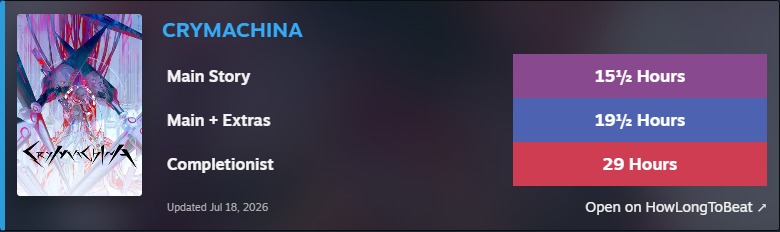
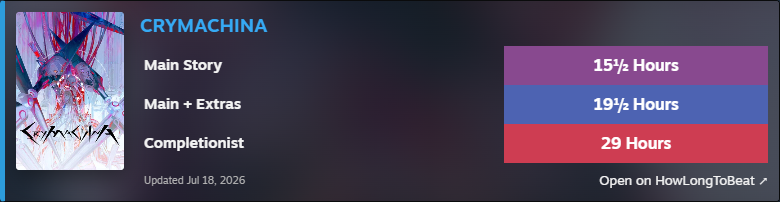
Fix Steam embedded HLTB requests

diff --git a/src/ui/widget.css b/src/ui/widget.css
@@ -1,6 +1,6 @@
 :host {
   display: block;
-  margin: 0 0 14px;
+  margin: 0 0 28px;
   color-scheme: dark;
   font-family: "Motiva Sans", Arial, sans-serif;
 }
@@ -16,7 +16,7 @@
   box-shadow: 0 8px 25px rgba(0, 0, 0, .32);
 }
 
-header { position: relative; padding: 14px 16px 11px; border-bottom: 1px solid rgba(255, 255, 255, .08); }
+header { position: relative; padding: 12px 14px 10px; border-bottom: 1px solid rgba(255, 255, 255, .08); }
 header div { display: flex; align-items: baseline; justify-content: space-between; gap: 12px; }
 header strong { color: #fff; font-size: 15px; letter-spacing: .02em; }
 header span, .badge { color: #55b9f3; font-size: 10px; font-weight: 700; letter-spacing: .08em; text-transform: uppercase; }
@@ -33,34 +33,34 @@ header span, .badge { color: #55b9f3; font-size: 10px; font-weight: 700; letter-
 }
 .card-shade { background: linear-gradient(90deg, rgba(20, 20, 22, .48), rgba(20, 20, 22, .72) 55%, rgba(20, 20, 22, .55)); }
 
-.result-layout { position: relative; display: grid; grid-template-columns: 125px minmax(0, 1fr); gap: 20px; min-height: 182px; padding: 13px 12px; }
-.cover { width: 125px; height: 182px; margin: 0; overflow: hidden; background: #23282c; border-radius: 3px; box-shadow: 0 8px 22px rgba(0, 0, 0, .45); }
+.result-layout { position: relative; display: grid; grid-template-columns: 108px minmax(0, 1fr); gap: 16px; min-height: 158px; padding: 11px; }
+.cover { width: 108px; height: 158px; margin: 0; overflow: hidden; background: #23282c; border-radius: 3px; box-shadow: 0 8px 22px rgba(0, 0, 0, .45); }
 .cover img { display: block; width: 100%; height: 100%; object-fit: cover; }
 .cover span { display: grid; place-items: center; height: 100%; padding: 10px; color: #55b9f3; font-size: 12px; font-weight: 700; text-align: center; }
 .result-content { display: flex; min-width: 0; flex-direction: column; }
-.result-content h2 { margin: 3px 0 12px; overflow: hidden; color: #36aaf4; font-size: 21px; line-height: 1.2; text-overflow: ellipsis; white-space: nowrap; }
+.result-content h2 { margin: 2px 0 9px; overflow: hidden; color: #36aaf4; font-size: 19px; line-height: 1.2; text-overflow: ellipsis; white-space: nowrap; }
 .times { display: grid; gap: 0; }
-.time { display: grid; grid-template-columns: minmax(135px, 1fr) minmax(190px, 42%); align-items: center; min-height: 44px; }
-.time span { padding: 0 14px 0 5px; font-size: 16px; font-weight: 600; }
-.time strong { align-self: stretch; display: grid; place-items: center; padding: 0 12px; color: #fff; font-size: 17px; font-weight: 700; text-align: center; white-space: nowrap; }
+.time { display: grid; grid-template-columns: minmax(128px, 1fr) minmax(175px, 42%); align-items: center; min-height: 39px; }
+.time span { padding: 0 12px 0 4px; font-size: 15px; font-weight: 600; }
+.time strong { align-self: stretch; display: grid; place-items: center; padding: 0 10px; color: #fff; font-size: 16px; font-weight: 700; text-align: center; white-space: nowrap; }
 .time-mainStory strong { background: #88498f; }
 .time-mainPlusExtras strong { background: #4d63b2; }
 .time-completionist strong { background: #ce3d52; }
 
-footer { display: flex; flex-wrap: wrap; align-items: center; gap: 8px 12px; margin-top: auto; padding: 11px 0 0 5px; color: #b4b4b4; font-size: 10px; }
-footer a { margin-left: auto; color: #f3f3f3; font-size: 14px; }
+footer { display: flex; flex-wrap: wrap; align-items: center; gap: 7px 10px; margin-top: auto; padding: 8px 0 0 4px; color: #b4b4b4; font-size: 10px; }
+footer a { margin-left: auto; color: #f3f3f3; font-size: 13px; }
 a { color: #55b9f3; text-decoration: none; }
 a:hover { color: #fff; }
-.status { position: relative; margin: 0; padding: 20px 16px; color: #c1cad2; font-size: 13px; text-align: center; }
+.status { position: relative; margin: 0; padding: 16px 14px; color: #c1cad2; font-size: 13px; text-align: center; }
 .loading::after { content: ''; display: inline-block; width: 10px; height: 10px; margin-left: 8px; border: 2px solid #55b9f3; border-right-color: transparent; border-radius: 50%; animation: spin .8s linear infinite; }
 .error { padding-bottom: 8px; }
 .diagnostic { margin: -2px 16px 10px; color: #8f9aa5; font-size: 10px; text-align: center; }
-.search { position: relative; display: block; padding: 0 16px 18px; font-size: 12px; text-align: center; }
+.search { position: relative; display: block; padding: 0 14px 15px; font-size: 12px; text-align: center; }
 @keyframes spin { to { transform: rotate(360deg); } }
 
 @media (max-width: 620px) {
-  .result-layout { grid-template-columns: 92px minmax(0, 1fr); gap: 12px; }
-  .cover { width: 92px; height: 138px; }
+  .result-layout { grid-template-columns: 84px minmax(0, 1fr); gap: 11px; }
+  .cover { width: 84px; height: 126px; }
   .result-content h2 { font-size: 17px; }
   .time { grid-template-columns: 1fr; margin-bottom: 5px; }
   .time span { padding: 4px 0; font-size: 12px; }

diff --git a/tests/dnr-rules.test.ts b/tests/dnr-rules.test.ts
@@ -12,7 +12,7 @@ describe('HLTB request header rules', () => {
   it('does not synthesize an Origin header for the initialization GET', () => {
     const init = rules.find((rule) => rule.condition.requestMethods?.includes('get'));
     expect(init?.condition.urlFilter).toContain('/api/bleed/init');
-    expect(init?.action.requestHeaders?.map((header) => header.header)).toEqual(['Referer']);
+    expect(init?.action.requestHeaders?.map((header) => header.header)).toEqual(['Referer', 'User-Agent']);
   });
 
   it('uses same-site Origin and Referer only for the search POST', () => {
@@ -22,5 +22,14 @@ describe('HLTB request header rules', () => {
       { header: 'Origin', operation: 'set', value: 'https://howlongtobeat.com' },
       { header: 'Referer', operation: 'set', value: 'https://howlongtobeat.com/' },
     ]));
+  });
+
+  it('replaces embedded-client user agents consistently for both HLTB API calls', () => {
+    const userAgents = rules.map((rule) => rule.action.requestHeaders
+      ?.find((header) => header.header.toLowerCase() === 'user-agent')?.value);
+
+    expect(userAgents[0]).toBe(userAgents[1]);
+    expect(userAgents[0]).toMatch(/Chrome\/\d+/);
+    expect(userAgents[0]).not.toMatch(/Steam|Headless/i);
   });
 });

diff --git a/src/ui/widget.ts b/src/ui/widget.ts
@@ -11,6 +11,8 @@ export function ensureWidgetHost(documentRef: Document, placement: WidgetPlaceme
   if (!host.id) {
     host.id = WIDGET_ID;
     host.setAttribute('aria-live', 'polite');
+    host.style.setProperty('display', 'block', 'important');
+    host.style.setProperty('margin', '0 0 28px', 'important');
     host.attachShadow({ mode: 'open' });
   }
 

diff --git a/tests/widget.test.ts b/tests/widget.test.ts
@@ -11,6 +11,8 @@ describe('Steam widget', () => {
     renderLoading(first, 'en');
     expect(first).toBe(second);
     expect(document.querySelectorAll('#hltb-for-steam-unofficial')).toHaveLength(1);
+    expect(first.style.getPropertyValue('margin')).toBe('0px 0px 28px');
+    expect(first.style.getPropertyPriority('margin')).toBe('important');
     expect(first.shadowRoot?.textContent).toContain('Loading completion times');
   });
 

diff --git a/wxt.config.ts b/wxt.config.ts
@@ -6,7 +6,7 @@ export default defineConfig({
     name: 'HLTB for Steam — Unofficial',
     short_name: 'HLTB for Steam',
     description: 'Shows HowLongToBeat completion times on Steam game pages.',
-    version: '2.0.4',
+    version: '2.0.5',
     permissions: ['storage', 'declarativeNetRequestWithHostAccess'],
     host_permissions: [
       'https://store.steampowered.com/*',

diff --git a/CHANGELOG.md b/CHANGELOG.md
@@ -2,6 +2,19 @@
 
 All notable changes follow [Keep a Changelog](https://keepachangelog.com/en/1.1.0/).
 
+## [2.0.5] - 2026-07-18
+
+### Fixed
+
+- Normalize the User-Agent only for HLTB API requests so its anti-bot layer does not reject Steam's embedded Chromium with HTTP 403.
+- Keep the same browser identity across HLTB initialization and search requests.
+- Restore a Steam-sized gap between the HLTB card and the first purchase section.
+
+### Changed
+
+- Reduce the result card dimensions and typography by roughly 12–15% while retaining the HLTB-inspired layout.
+- Add a live smoke-test mode that launches Chromium with a Steam-like User-Agent and fails if a real HLTB result is not rendered.
+
 ## [2.0.4] - 2026-07-18
 
 ### Fixed

diff --git a/README.md b/README.md
@@ -8,6 +8,7 @@ An independent, privacy-friendly Chromium extension that adds HowLongToBeat comp
 
 - Main Story, Main + Extras, and Completionist estimates.
 - HLTB-inspired card with cover art, colored time bars, and a blurred cover backdrop.
+- Compatibility rule for Steam's embedded Chromium, scoped only to the HLTB API.
 - Strict title matching: uncertain results are never shown as facts.
 - Seven-day local cache with a saved-result fallback during temporary outages.
 - English and Russian interface selected from the browser language.
@@ -34,13 +35,14 @@ npm run check
 npx playwright install chromium
 npm run test:browser
 npm run test:live -- 2258500 CRYMACHINA
+npm run test:live -- 2258500 CRYMACHINA steam
 npm run build:firefox
 npm run verify:firefox
 npm run zip:all
 ```
 
 The unpacked extension is written to `.output/chrome-mv3`; the release ZIP is written to `.output/`.
-The opt-in live smoke test loads the built extension in an isolated Chromium profile, opens the real Steam page, and saves its widget screenshot under `live-smoke/`.
+The opt-in live smoke test loads the built extension in an isolated Chromium profile, opens the real Steam page, and saves its widget screenshot under `live-smoke/`. Pass `steam` as the final argument to reproduce the nonstandard user agent used by Steam's embedded browser.
 
 ## Architecture
 